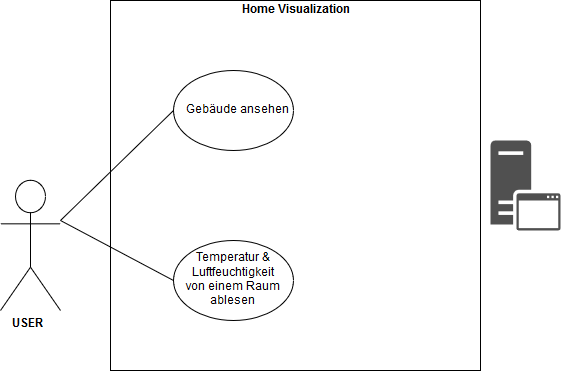
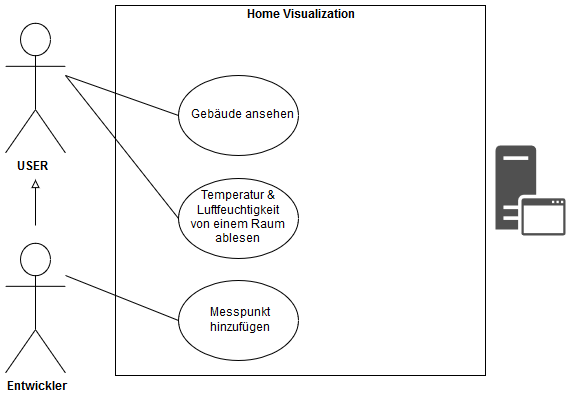
Use-Case-Diagramm aktualisiert & Systemdiagramm hinzugefuegt

diff --git a/README.md b/README.md
@@ -7,6 +7,7 @@
  - [Demo](#computer-Demo)
  - [Plakat](#mag_right-projekt-plakat)
  - [Architektur](#paperclip-architektur)
+ - [Systemdiagramm](#Systemdiagramm)
  - [Software](#Software)
  - [Projektstrukturplan](#Projektstrukturplan)
  - [Use-case-Diagramm](#Use-case-Diagramm)
@@ -35,7 +36,10 @@ Unser Projekt stellt Informationen wie Temperatur, Luftfeuchtigkeit etc. von ein
 ![Unser Plakat](Documents/ha_visualisierung.pdf)
 
 ## :paperclip: Architektur
-![alt text](Documents/architecture.png)
+![alt text](Documents/architecture.png)   
+
+## Systemdiagramm
+![alt text](Documents/Systemdiagramm.jpg)
 
 ## Software
 ![alt text](Documents/software.png)
